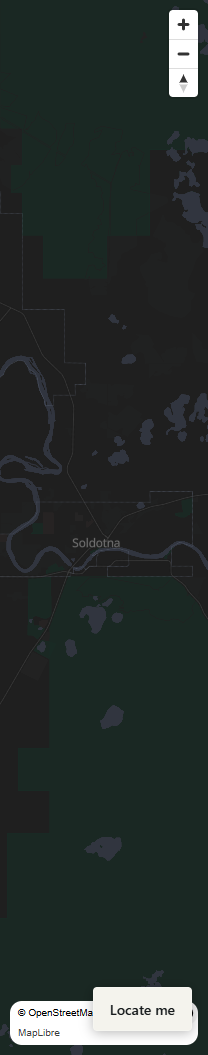
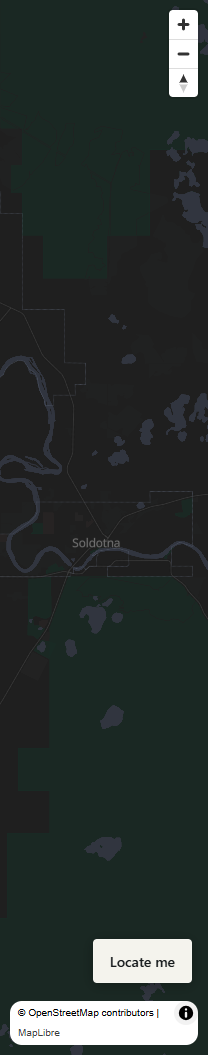
Avoid narrow map control overlap

Changed region(s): [[0.4327, 0.8796, 0.9519, 1.0]]

diff --git a/css/app.css b/css/app.css
@@ -70,6 +70,12 @@ body {
   display: none;
 }
 
+@media (max-width: 360px) {
+  .map-controls {
+    bottom: max(72px, env(safe-area-inset-bottom));
+  }
+}
+
 .maplibregl-ctrl-attrib {
   font-size: 10px;
 }
